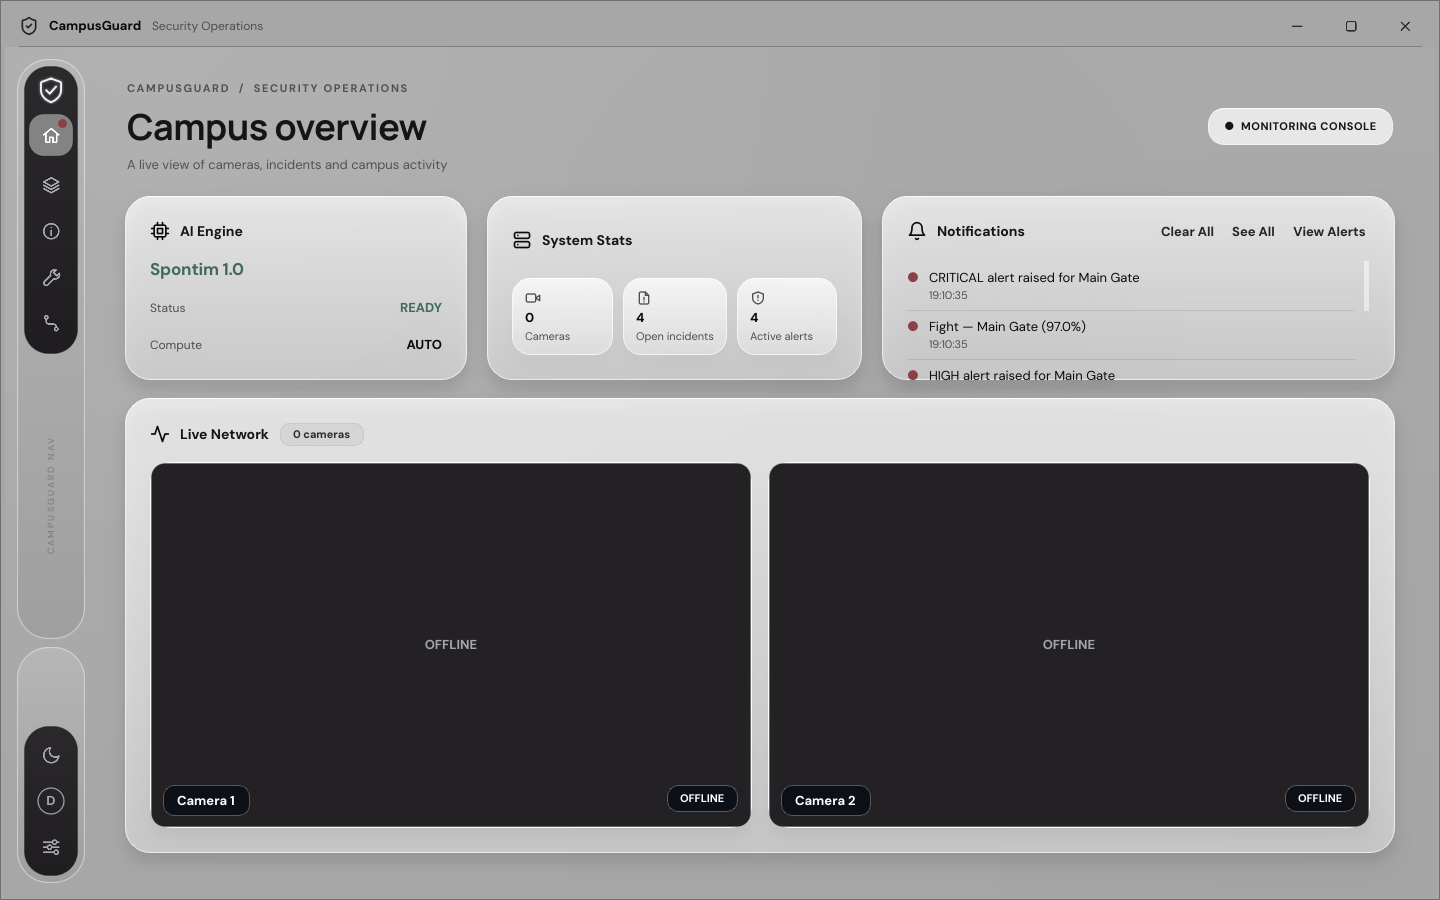
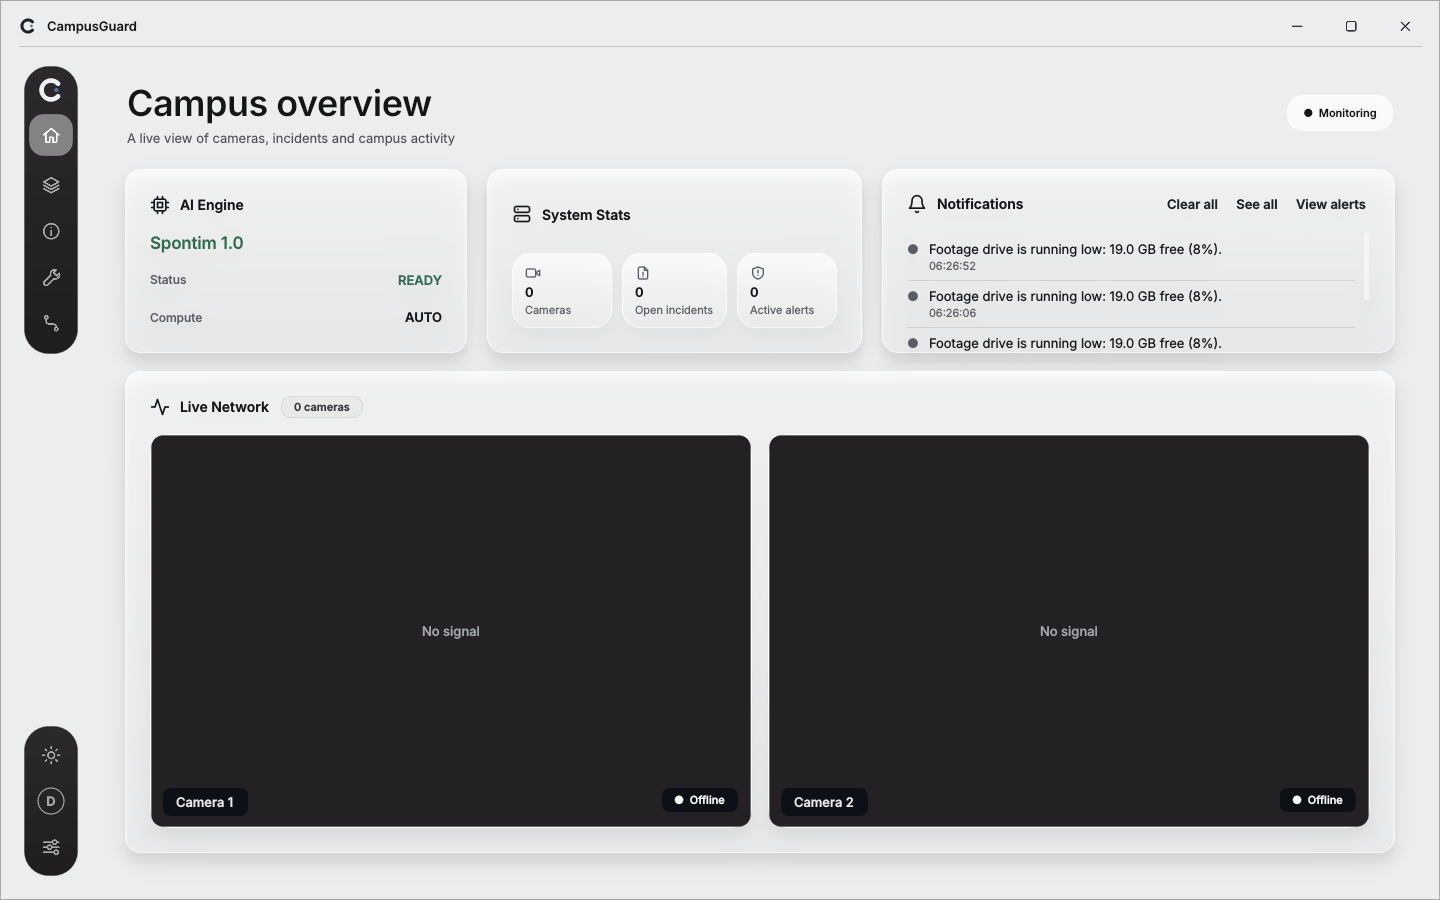
Light theme: real light palette instead of mid-grey; refresh screenshots
Claude-Session: https://claude.ai/code/session_01DZQhVHiRT8Q8h25Fm4zJeQ

diff --git a/campusguard/ui/theme.py b/campusguard/ui/theme.py
@@ -64,20 +64,20 @@ DARK = Palette(
 
 LIGHT = Palette(
     "light",
-    "#AAAAAA", "#A7A7A7",
-    "#FFFFFF", 22, "#000000", 4,
-    "#0A0A0B", "#2B2C2E", "#4C4D50",
-    "#252326", "#3A383C",
-    "#3F6B57", "#75613A", "#8B4048",
-    "#B8B8B8", 238,
-    "#1A1A1A", 40,
-    "#1A1A1A", 14,
-    "#B2B2B2", 238,
-    "#A1A1A1", 255,
-    "#D7DBDA",
-    14,
-    "#B4B4B4",
-    "#252326",
+    "#ECEDEF", "#ECEDEF",
+    "#FFFFFF", 0, "#000000", 0,
+    "#16171A", "#34363B", "#5A5D65",
+    "#202124", "#3A3C41",
+    "#2F6B52", "#7A5F22", "#9A3B45",
+    "#FFFFFF", 245,
+    "#16171A", 22,
+    "#16171A", 8,
+    "#FFFFFF", 245,
+    "#F6F7F8", 255,
+    "#C9CBD1",
+    0,
+    "#FFFFFF",
+    "#202124",
     "#3F5F94",
 )
 
